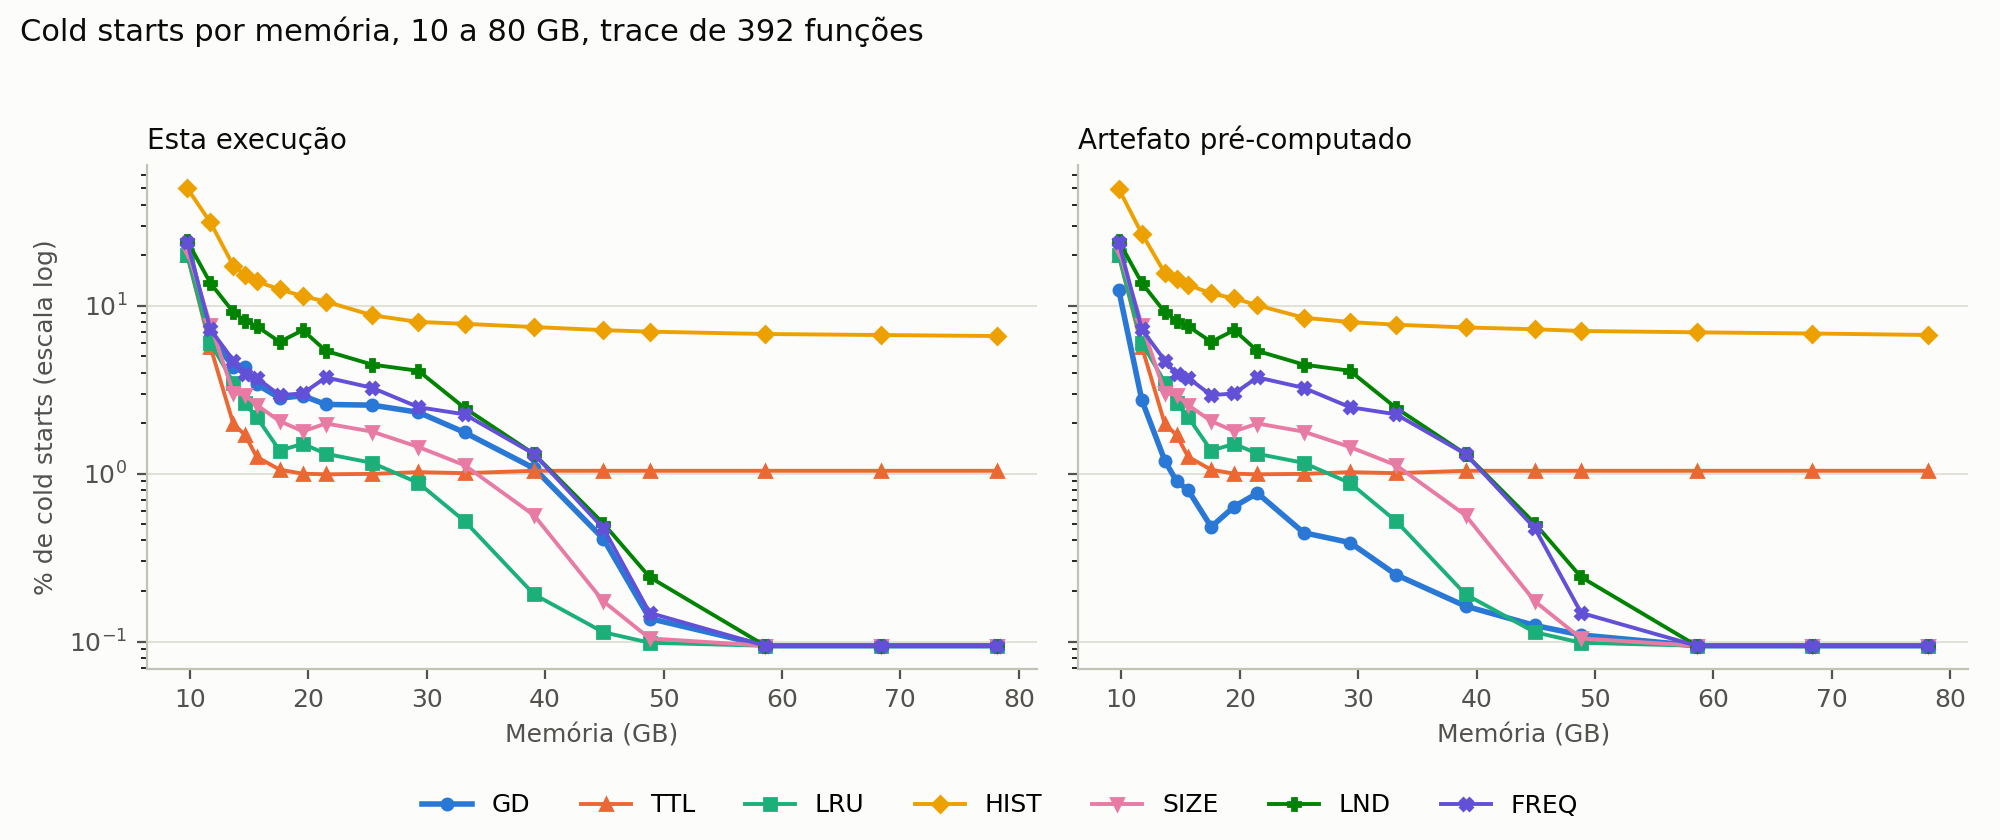
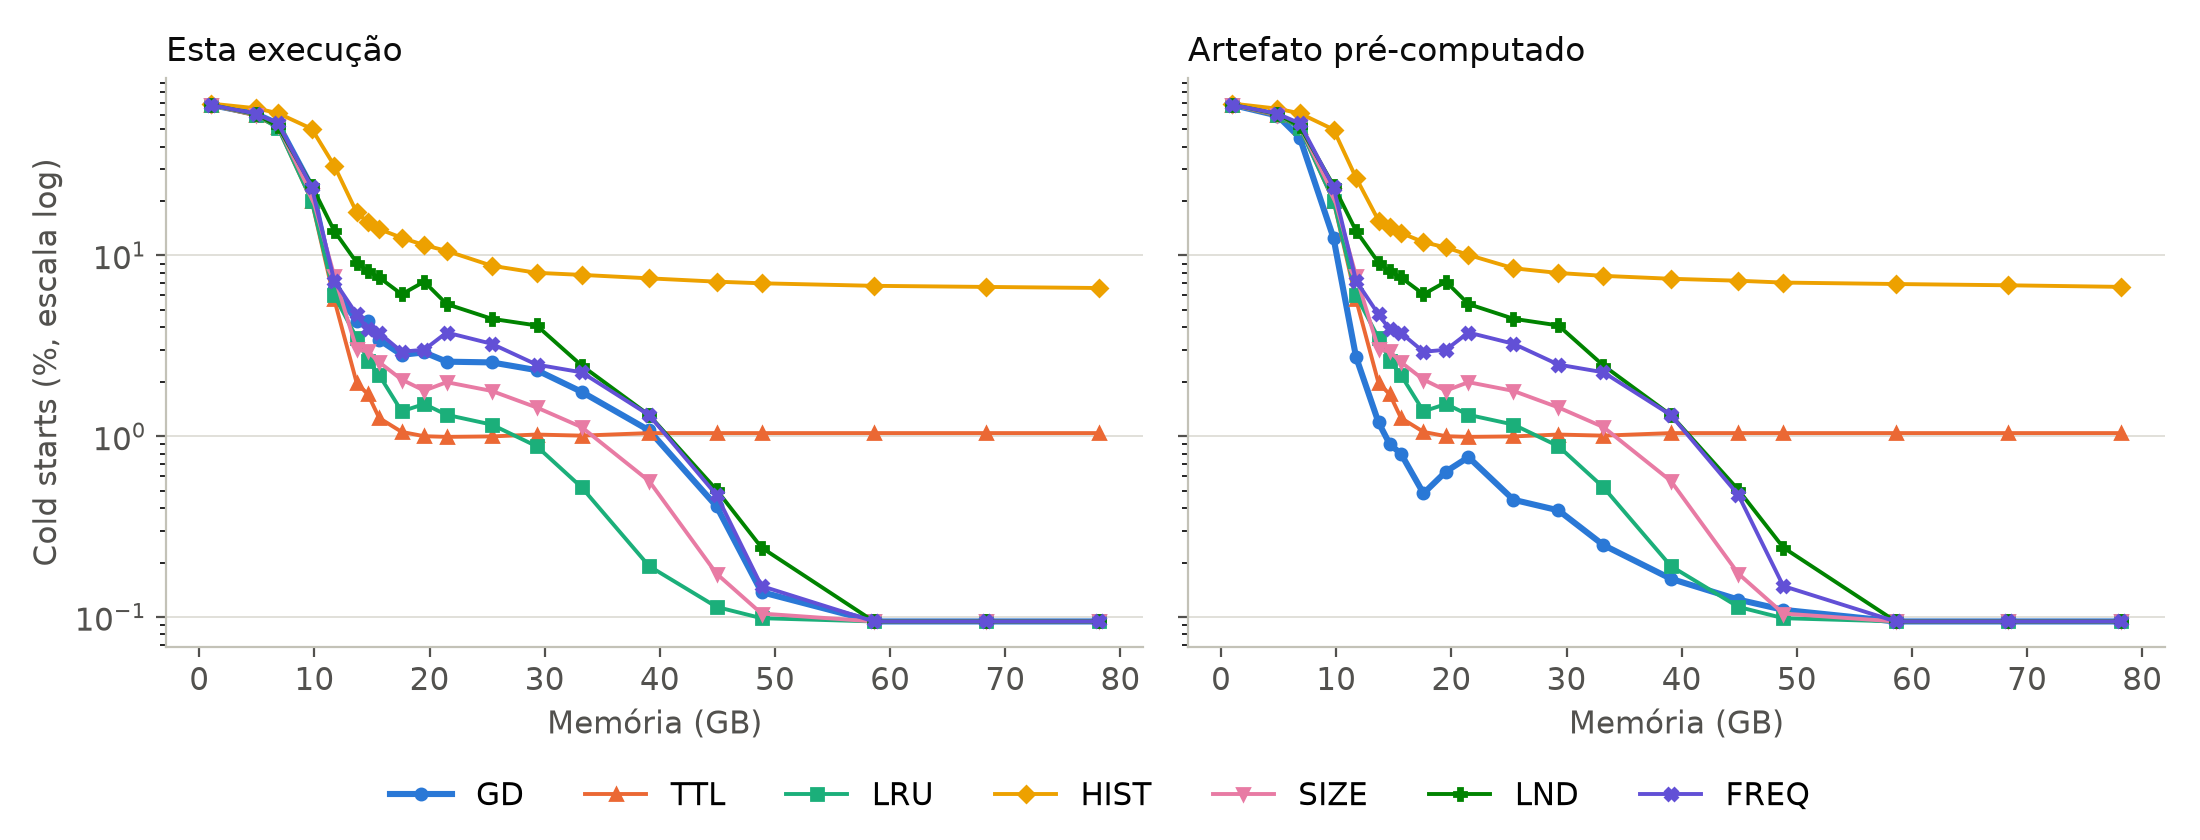
Figuras 1 a 3 cobrindo de 1 a 80 GB, geradas a partir do CSV

diff --git a/experimentos/figuras_artigo.py b/experimentos/figuras_artigo.py
@@ -1,0 +1,82 @@
+"""Gera as figuras 1 a 3 do artigo a partir de analise/resultados.csv (sem carregar .pckl).
+
+Cobre os 20 tamanhos, de 1 a 80 GB (MB/1024, como nos scripts do artefato),
+com fontes legíveis em uma coluna do formato ACM.
+"""
+import csv
+import os
+
+import matplotlib
+matplotlib.use("Agg")
+import matplotlib.pyplot as plt
+
+HERE = os.path.dirname(os.path.abspath(__file__))
+OUT = os.path.join(HERE, "analise")
+POLICIES = ["GD", "TTL", "LRU", "HIST", "SIZE", "LND", "FREQ"]
+COLORS = {"GD": "#2a78d6", "TTL": "#eb6834", "LRU": "#1baf7a", "HIST": "#eda100",
+          "SIZE": "#e87ba4", "LND": "#008300", "FREQ": "#6250d6"}
+MARKERS = {"GD": "o", "TTL": "^", "LRU": "s", "HIST": "D", "SIZE": "v", "LND": "P", "FREQ": "X"}
+INK, MUTED, GRID, AXIS, SURFACE = "#0b0b0b", "#52514e", "#e1e0d9", "#c3c2b7", "#ffffff"
+plt.rcParams.update({"font.size": 11})
+
+rows = list(csv.DictReader(open(os.path.join(OUT, "resultados.csv"))))
+for r in rows:
+    r["mem"] = int(r["mem"])
+by = {(r["policy"], r["mem"]): r for r in rows}
+mems = sorted({r["mem"] for r in rows})
+xs = [m / 1024 for m in mems]
+
+
+def style(ax):
+    ax.set_facecolor(SURFACE)
+    ax.grid(axis="y", color=GRID, linewidth=0.7)
+    ax.set_axisbelow(True)
+    for s in ("top", "right"):
+        ax.spines[s].set_visible(False)
+    for s in ("left", "bottom"):
+        ax.spines[s].set_color(AXIS)
+    ax.tick_params(colors=MUTED, labelsize=11)
+
+
+def panels(key, ylabel, fname, log):
+    fig, axes = plt.subplots(1, 2, figsize=(11, 4.2), sharey=True, facecolor=SURFACE)
+    for ax, src, sub in zip(axes, ("run", "art"), ("Esta execução", "Artefato pré-computado")):
+        style(ax)
+        for p in POLICIES:
+            ax.plot(xs, [float(by[p, m][f"{src}_{key}"]) for m in mems], color=COLORS[p],
+                    marker=MARKERS[p], markersize=4, linewidth=2.2 if p == "GD" else 1.4, label=p)
+        ax.set_title(sub, fontsize=12, color=INK, loc="left")
+        ax.set_xlabel("Memória (GB)", color=MUTED, fontsize=11)
+    axes[0].set_ylabel(ylabel, color=MUTED, fontsize=11)
+    if log:
+        axes[0].set_yscale("log")
+    else:
+        axes[0].set_ylim(0, None)
+    h, l = axes[0].get_legend_handles_labels()
+    fig.legend(h, l, loc="lower center", ncol=7, frameon=False, fontsize=11)
+    fig.tight_layout(rect=(0, 0.08, 1, 1))
+    fig.savefig(os.path.join(OUT, fname), dpi=200)
+    plt.close(fig)
+
+
+panels("cold_pct", "Cold starts (%, escala log)", "fig_cold_starts.png", True)
+panels("inc_pct", "Aumento no tempo de execução (%)", "fig_tempo_execucao.png", False)
+
+fig, ax = plt.subplots(figsize=(6, 4.2), facecolor=SURFACE)
+style(ax)
+series = [("GD publicado", "GD", "run_cold", "#2a78d6", "o", "-"),
+          ("GD do artefato", "GD", "art_cold", INK, "o", "--"),
+          ("TTL", "TTL", "run_cold", "#eb6834", "^", "-"),
+          ("LRU", "LRU", "run_cold", "#1baf7a", "s", "-"),
+          ("Variante exploratória", "GD_wall_own_cost", "run_cold", "#6250d6", "X", ":")]
+for label, pol, key, c, mk, ls in series:
+    ax.plot(xs, [int(by[pol, m][key]) for m in mems], color=c, marker=mk, markersize=4,
+            linestyle=ls, linewidth=2, label=label)
+ax.set_yscale("log")
+ax.set_xlabel("Memória (GB)", color=MUTED, fontsize=12)
+ax.set_ylabel("Número de cold starts (escala log)", color=MUTED, fontsize=12)
+ax.legend(frameon=False, fontsize=11)
+fig.tight_layout()
+fig.savefig(os.path.join(OUT, "fig_gd_divergencia.png"), dpi=200)
+plt.close(fig)
+print("figuras geradas em", OUT)
